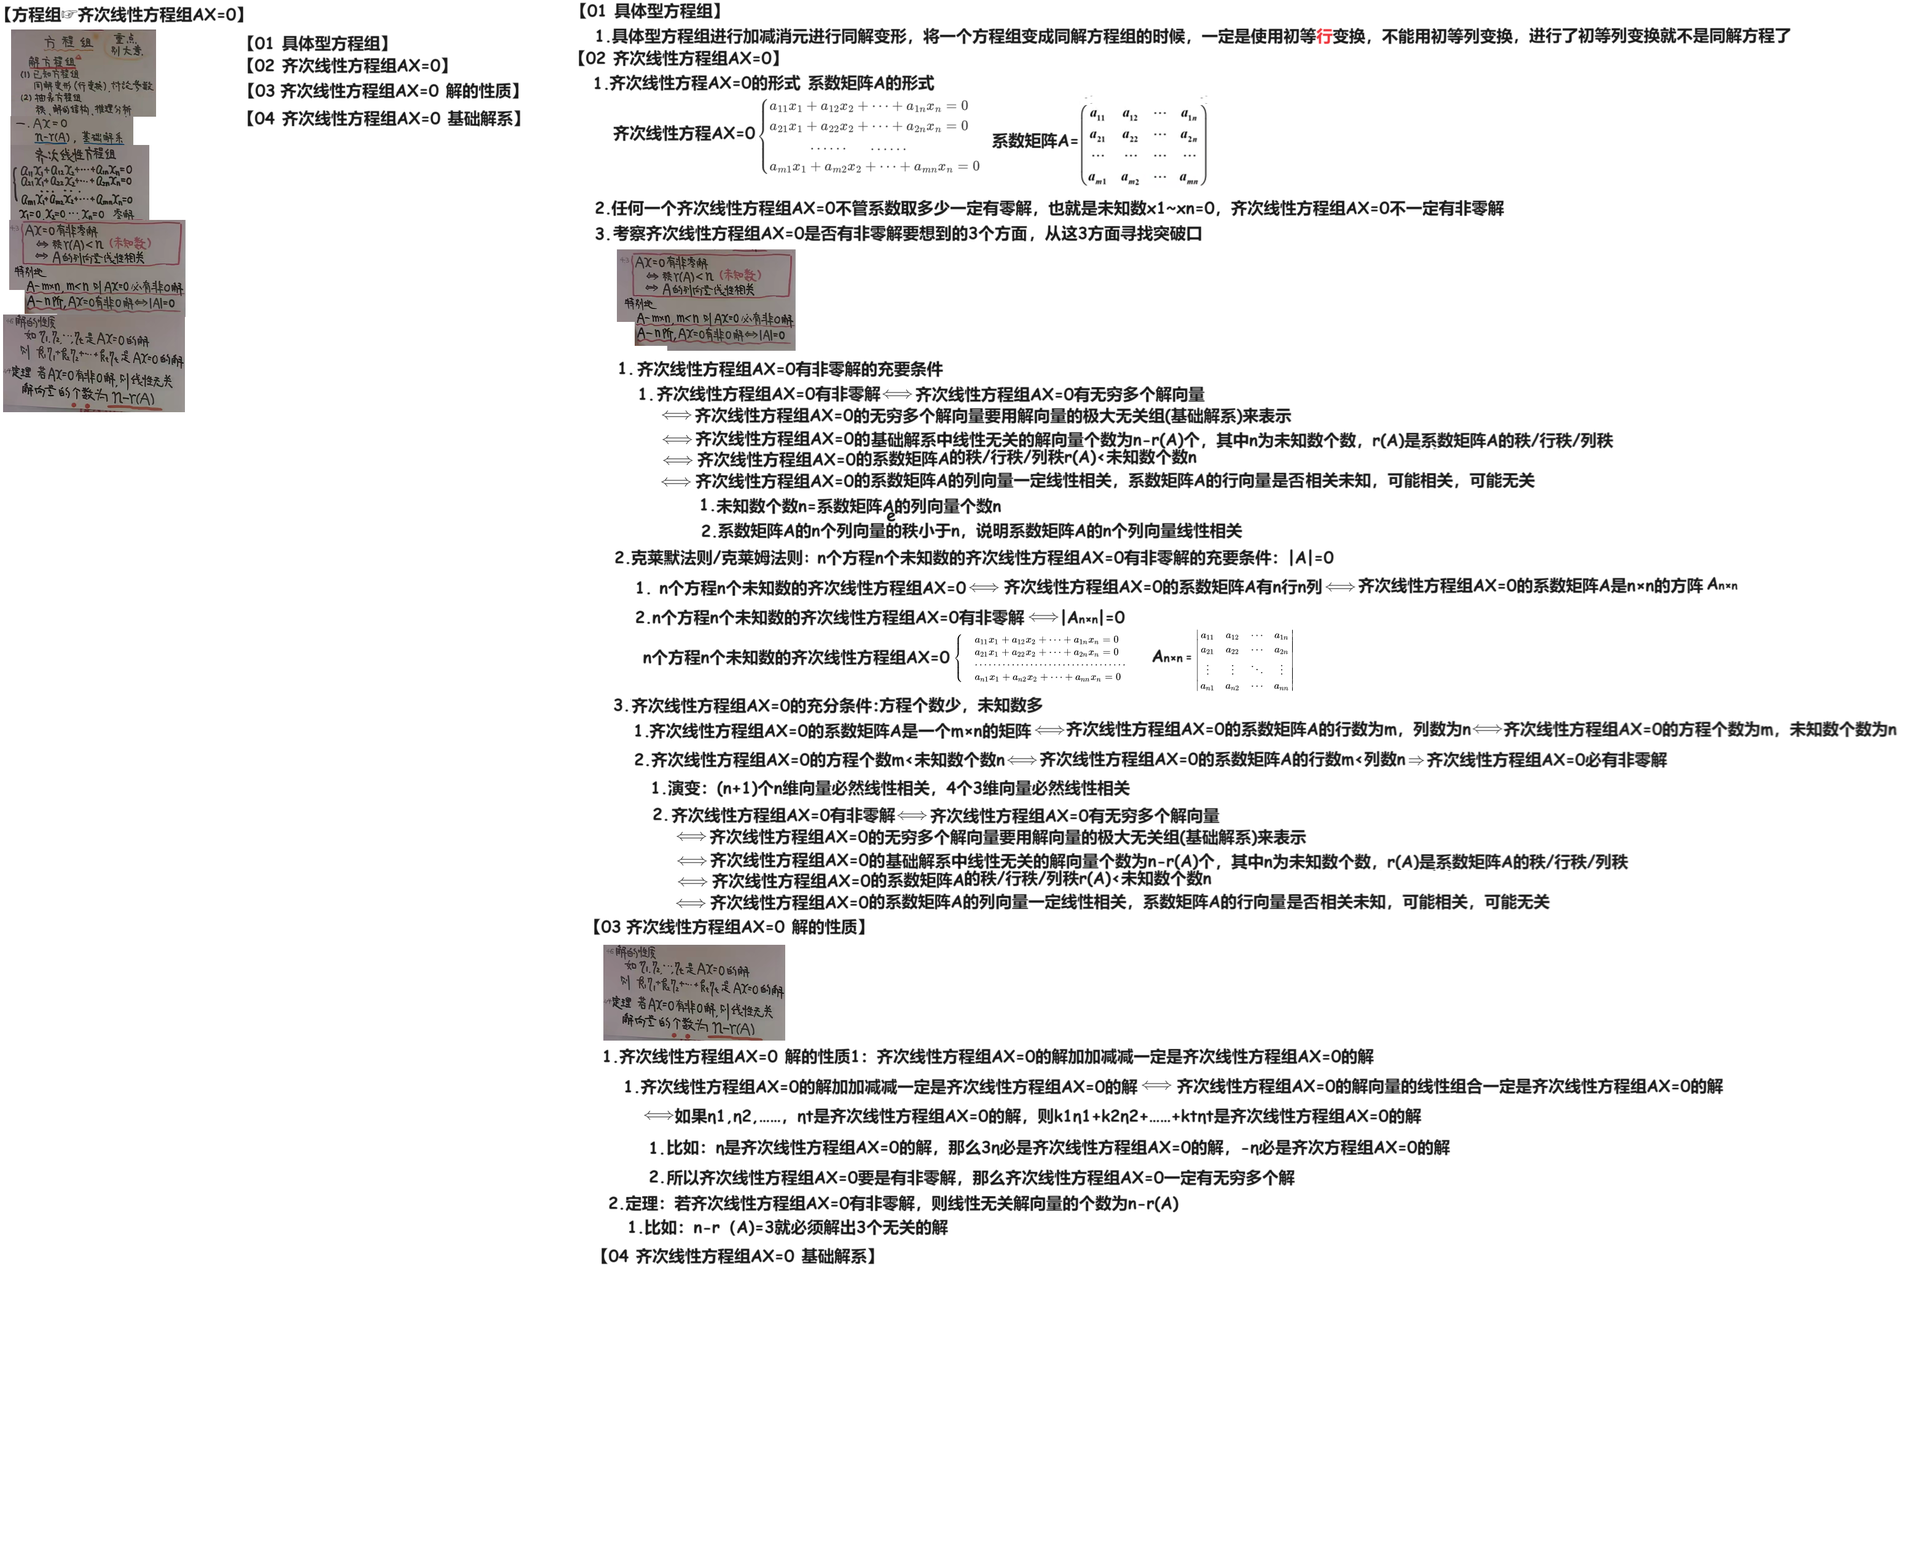
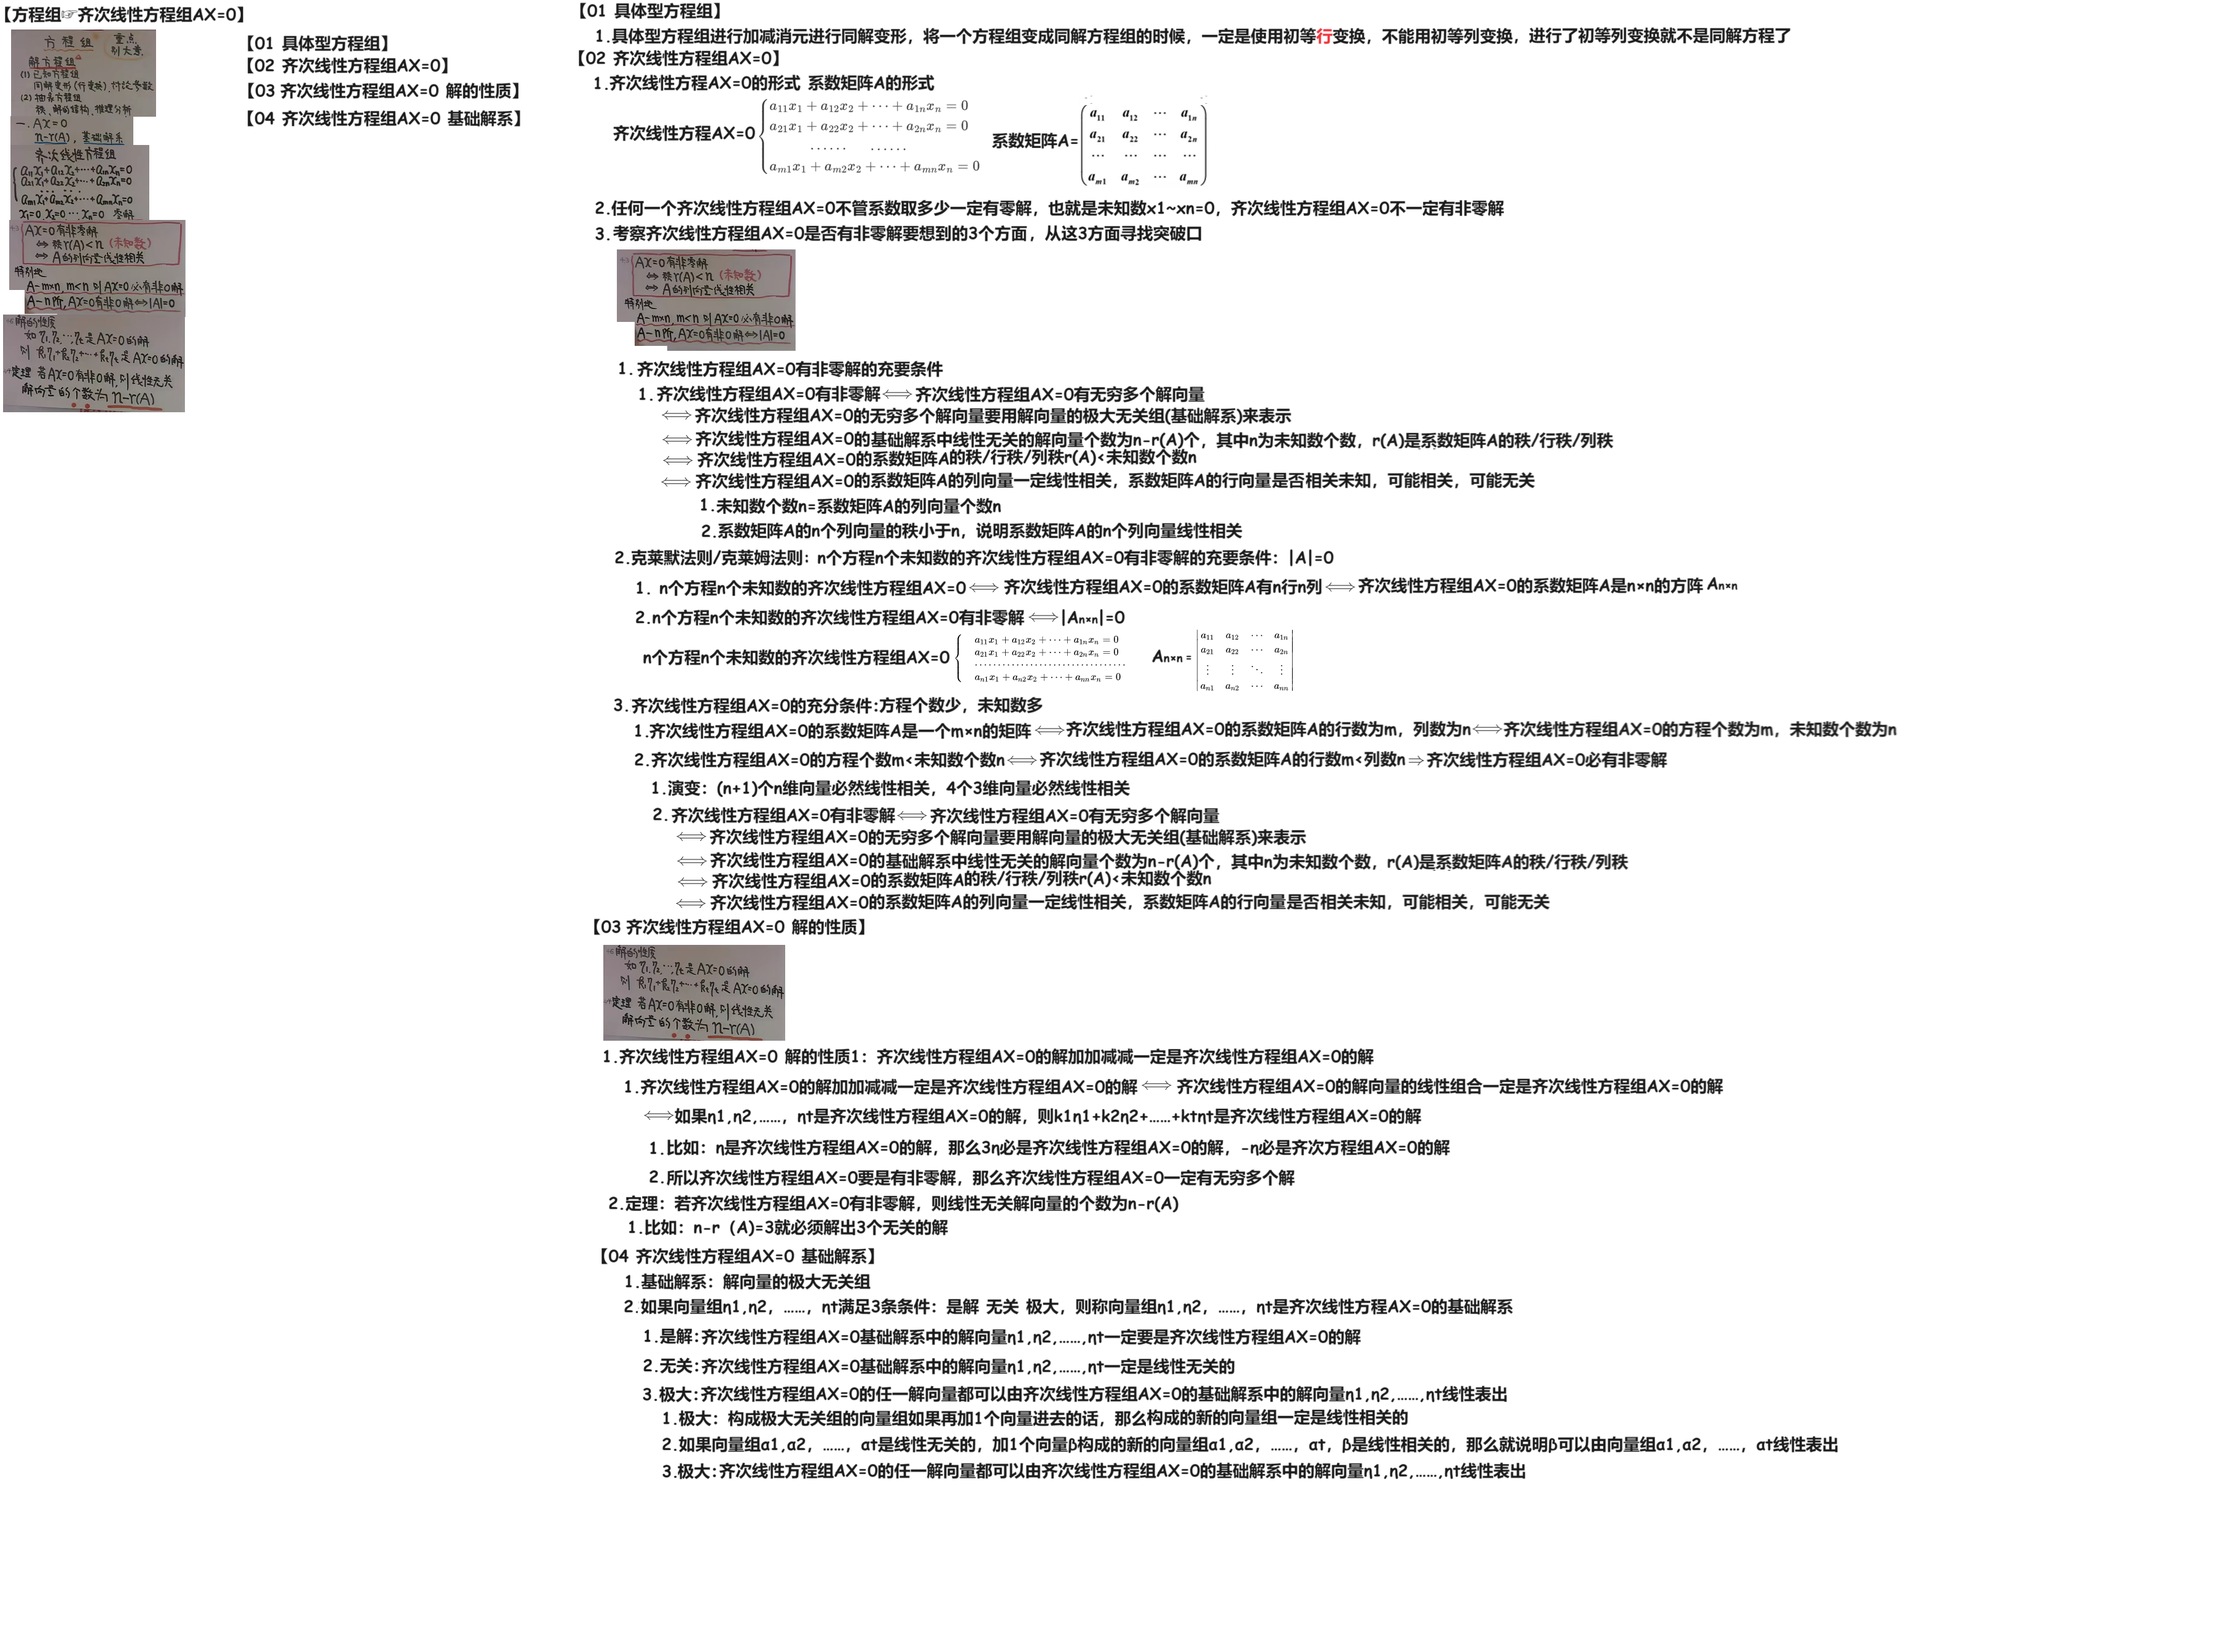
240309

Changed region(s): [[0.0, 0.0, 0.999, 0.9045], [0.7805, 0.8733, 0.8117, 0.9045]]

diff --git a/02 线代/02 知识点/06 方程组 【24李永乐强化】【B站小崔说数】 240309/02 B站 小崔说数/02 Doc.md b/02 线代/02 知识点/06 方程组 【24李永乐强化】【B站小崔说数】 240309/02 B站 小崔说数/02 Doc.md
@@ -1,3 +1,13 @@
-# 解方程组
+# 01 解方程组
 
 <img src="https://cvp.oss-cn-shanghai.aliyuncs.com/picgo/202403051734584.png" alt="01 解方程组" style="zoom:50%;" />
+
+# 02 用向量视角看待解方程组
+
+<img src="https://cvp.oss-cn-shanghai.aliyuncs.com/picgo/202403091413333.png" alt="02 用向量视角看待解方程组" style="zoom:50%;" />
+
+
+
+# 03 为什么基础解系无关解个数为n-r
+
+<img src="https://cvp.oss-cn-shanghai.aliyuncs.com/picgo/202403091414371.png" alt="03 为什么基础解系无关解个数为n-r" style="zoom:50%;" />
